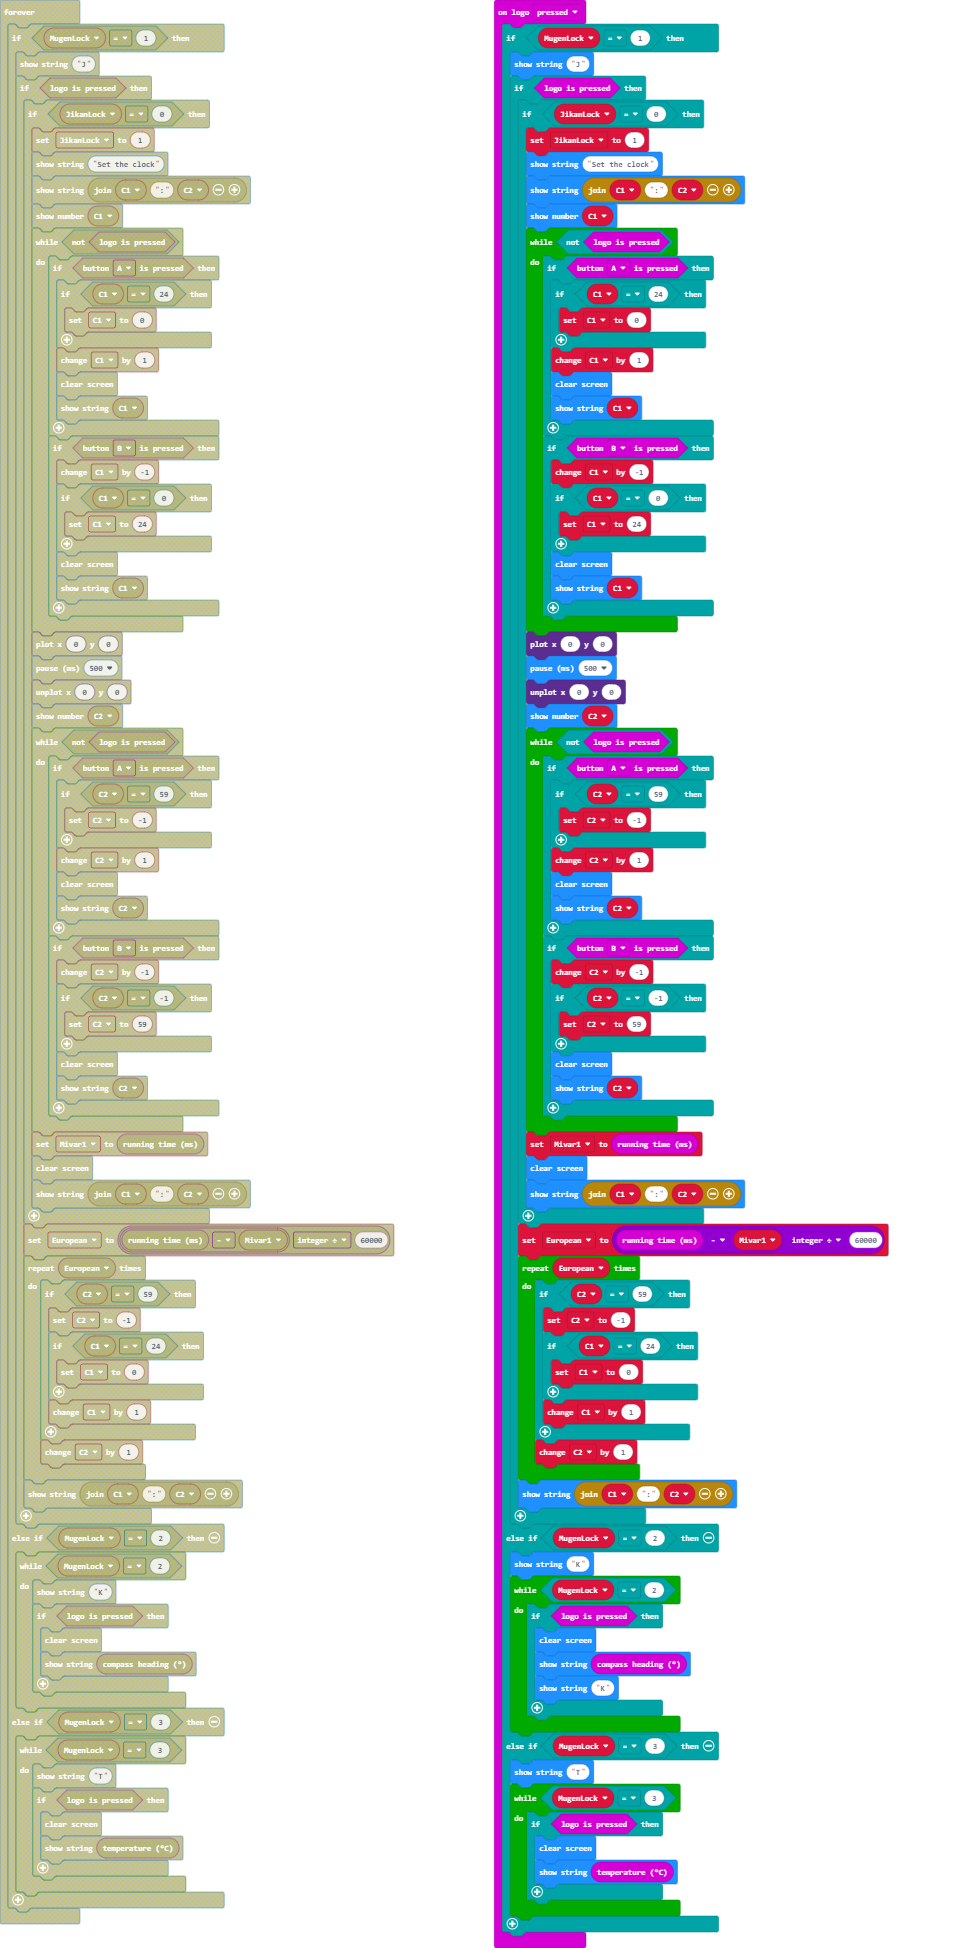
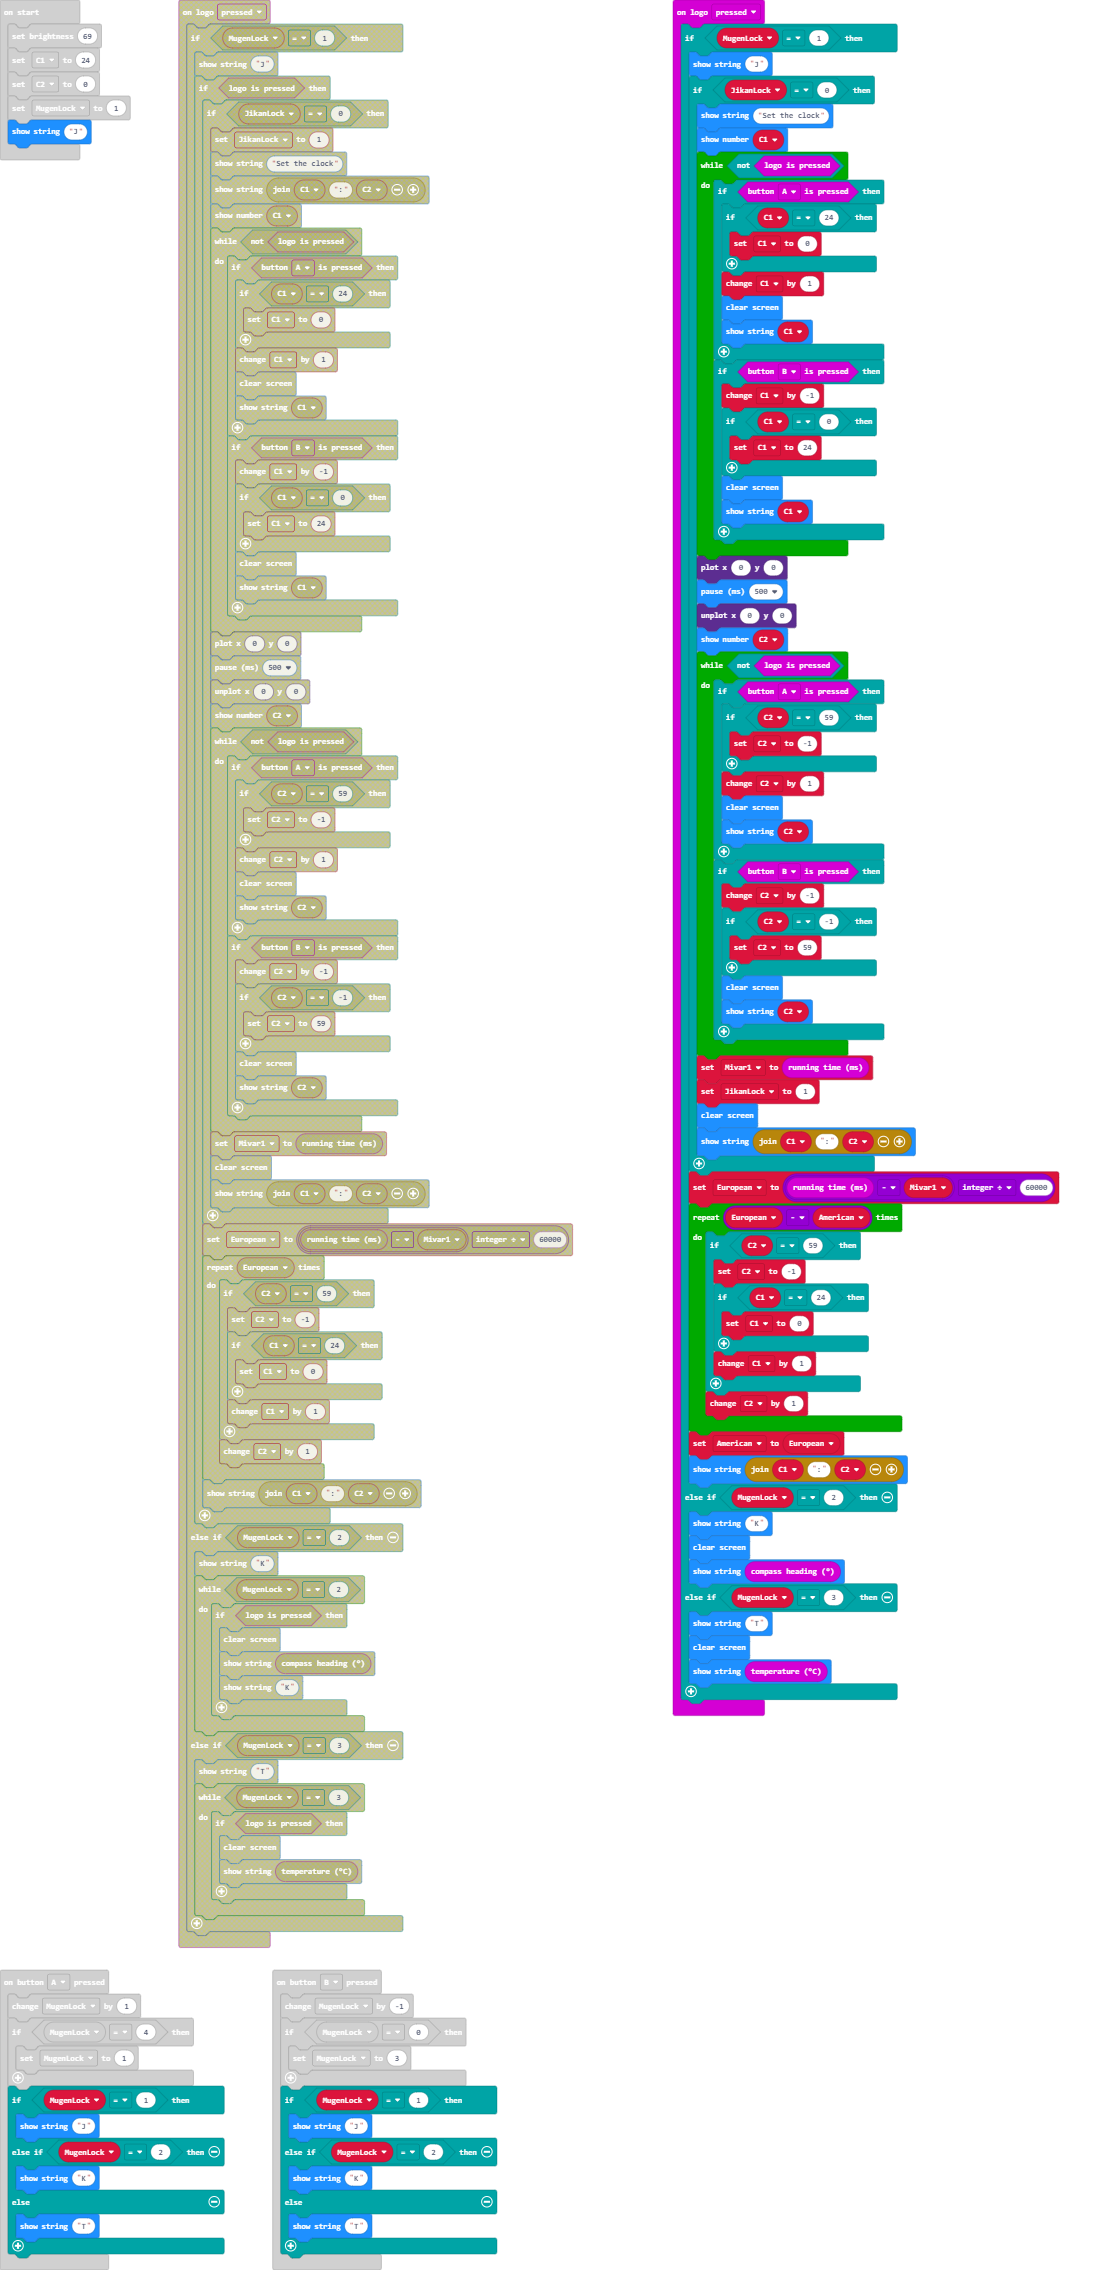
Update main.blocks, main.ts

diff --git a/main.ts b/main.ts
@@ -3,98 +3,102 @@ input.onButtonPressed(Button.A, function () {
     if (MugenLock == 4) {
         MugenLock = 1
     }
+    if (MugenLock == 1) {
+        basic.showString("J")
+    } else if (MugenLock == 2) {
+        basic.showString("K")
+    } else {
+        basic.showString("T")
+    }
 })
 input.onButtonPressed(Button.B, function () {
     MugenLock += -1
     if (MugenLock == 0) {
         MugenLock = 3
     }
+    if (MugenLock == 1) {
+        basic.showString("J")
+    } else if (MugenLock == 2) {
+        basic.showString("K")
+    } else {
+        basic.showString("T")
+    }
 })
 input.onLogoEvent(TouchButtonEvent.Pressed, function () {
     if (MugenLock == 1) {
         basic.showString("J")
-        if (input.logoIsPressed()) {
-            if (JikanLock == 0) {
-                JikanLock = 1
-                basic.showString("Set the clock")
-                basic.showString("" + C1 + ":" + C2)
-                basic.showNumber(C1)
-                while (!(input.logoIsPressed())) {
-                    if (input.buttonIsPressed(Button.A)) {
-                        if (C1 == 24) {
-                            C1 = 0
-                        }
-                        C1 += 1
-                        basic.clearScreen()
-                        basic.showString("" + (C1))
-                    }
-                    if (input.buttonIsPressed(Button.B)) {
-                        C1 += -1
-                        if (C1 == 0) {
-                            C1 = 24
-                        }
-                        basic.clearScreen()
-                        basic.showString("" + (C1))
-                    }
-                }
-                led.plot(0, 0)
-                basic.pause(500)
-                led.unplot(0, 0)
-                basic.showNumber(C2)
-                while (!(input.logoIsPressed())) {
-                    if (input.buttonIsPressed(Button.A)) {
-                        if (C2 == 59) {
-                            C2 = -1
-                        }
-                        C2 += 1
-                        basic.clearScreen()
-                        basic.showString("" + (C2))
-                    }
-                    if (input.buttonIsPressed(Button.B)) {
-                        C2 += -1
-                        if (C2 == -1) {
-                            C2 = 59
-                        }
-                        basic.clearScreen()
-                        basic.showString("" + (C2))
-                    }
-                }
-                Mivar1 = input.runningTime()
-                basic.clearScreen()
-                basic.showString("" + C1 + ":" + C2)
-            }
-            European = Math.idiv(input.runningTime() - Mivar1, 60000)
-            for (let index = 0; index < European; index++) {
-                if (C2 == 59) {
-                    C2 = -1
+        if (JikanLock == 0) {
+            basic.showString("Set the clock")
+            basic.showNumber(C1)
+            while (!(input.logoIsPressed())) {
+                if (input.buttonIsPressed(Button.A)) {
                     if (C1 == 24) {
                         C1 = 0
                     }
                     C1 += 1
+                    basic.clearScreen()
+                    basic.showString("" + (C1))
                 }
-                C2 += 1
+                if (input.buttonIsPressed(Button.B)) {
+                    C1 += -1
+                    if (C1 == 0) {
+                        C1 = 24
+                    }
+                    basic.clearScreen()
+                    basic.showString("" + (C1))
+                }
             }
+            led.plot(0, 0)
+            basic.pause(500)
+            led.unplot(0, 0)
+            basic.showNumber(C2)
+            while (!(input.logoIsPressed())) {
+                if (input.buttonIsPressed(Button.A)) {
+                    if (C2 == 59) {
+                        C2 = -1
+                    }
+                    C2 += 1
+                    basic.clearScreen()
+                    basic.showString("" + (C2))
+                }
+                if (input.buttonIsPressed(Button.B)) {
+                    C2 += -1
+                    if (C2 == -1) {
+                        C2 = 59
+                    }
+                    basic.clearScreen()
+                    basic.showString("" + (C2))
+                }
+            }
+            Mivar1 = input.runningTime()
+            JikanLock = 1
+            basic.clearScreen()
             basic.showString("" + C1 + ":" + C2)
         }
+        European = Math.idiv(input.runningTime() - Mivar1, 60000)
+        for (let index = 0; index < European - American; index++) {
+            if (C2 == 59) {
+                C2 = -1
+                if (C1 == 24) {
+                    C1 = 0
+                }
+                C1 += 1
+            }
+            C2 += 1
+        }
+        American = European
+        basic.showString("" + C1 + ":" + C2)
     } else if (MugenLock == 2) {
         basic.showString("K")
-        while (MugenLock == 2) {
-            if (input.logoIsPressed()) {
-                basic.clearScreen()
-                basic.showString("" + (input.compassHeading()))
-                basic.showString("K")
-            }
-        }
+        basic.clearScreen()
+        basic.showString("" + (input.compassHeading()))
     } else if (MugenLock == 3) {
         basic.showString("T")
-        while (MugenLock == 3) {
-            if (input.logoIsPressed()) {
-                basic.clearScreen()
-                basic.showString("" + (input.temperature()))
-            }
-        }
+        basic.clearScreen()
+        basic.showString("" + (input.temperature()))
     }
 })
+let American = 0
 let European = 0
 let Mivar1 = 0
 let JikanLock = 0
@@ -105,3 +109,4 @@ led.setBrightness(69)
 C1 = 24
 C2 = 0
 MugenLock = 1
+basic.showString("J")
